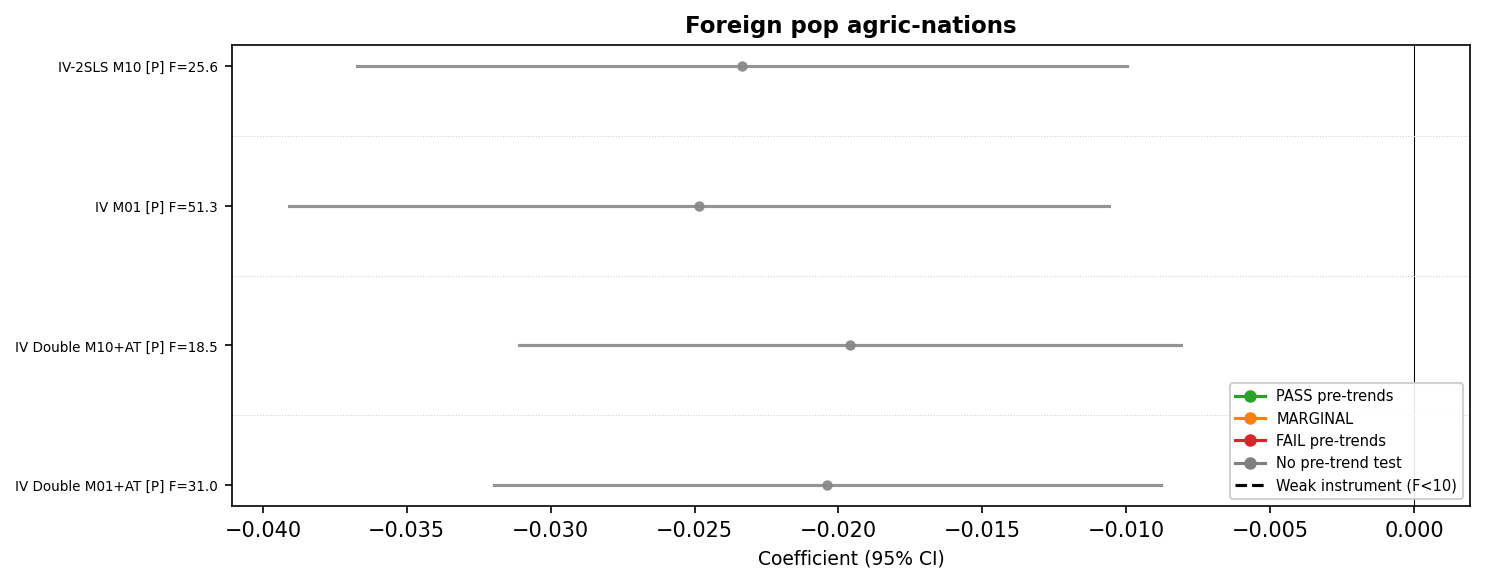
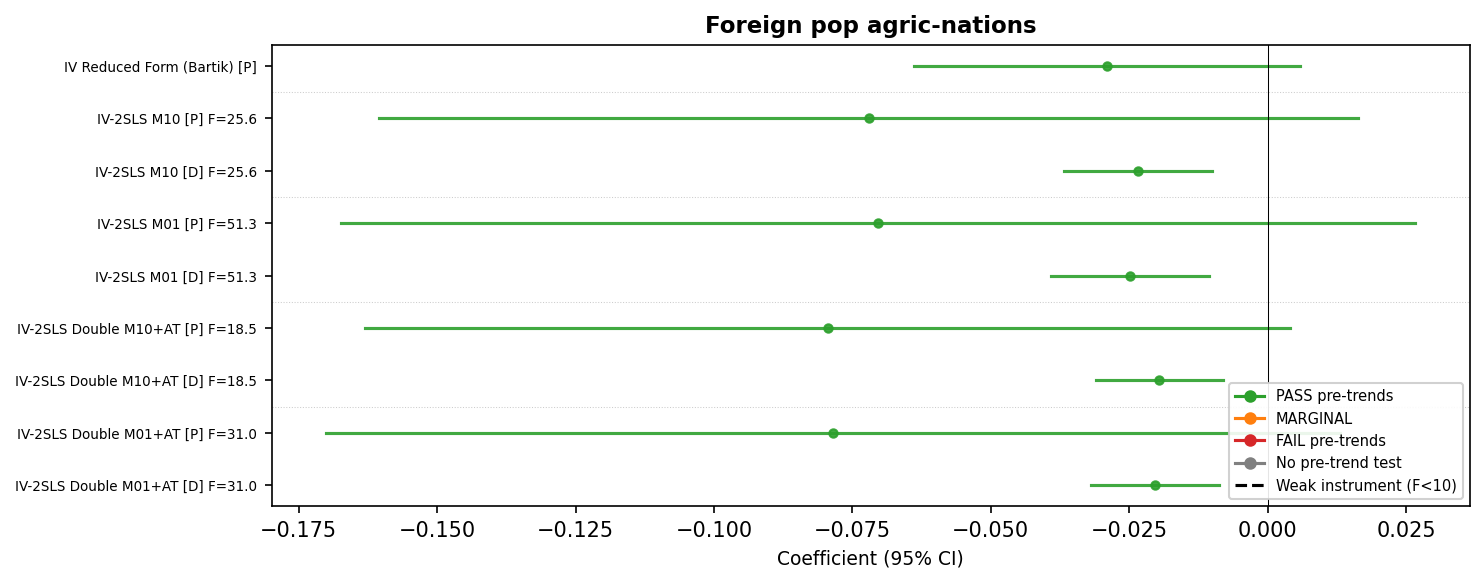
Full IV suite for all province outcomes, remove raw methods
- Parts 2-4 (Remittances, Permits, Nationality) now run full IV:
  RF + M10 + M01 + Double M10+AT + Double M01+AT
- All with both pooled and detrended coefficients
- RF pre-trends propagated to IV methods
- Removed raw/direct 2SLS and IV-agric-trade from display
- All 18 province outcomes now have event study tabs

diff --git a/province.html b/province.html
@@ -191,8 +191,10 @@ footer { margin-top: 3rem; padding-top: 1rem; border-top: 1px solid #eee; color:
   <div class="outcome-body">
     <div class="plot-tabs">
       <button class=" active" data-target="prov_foreign_pop_agric_nations_full">All Methods × Specs</button>
+      <button class="" data-target="prov_foreign_pop_agric_nations_event_study">IV Event Study</button>
     </div>
     <div class="plot-pane active" id="prov_foreign_pop_agric_nations_full"><img src="assets/img/province/foreign_pop_agric_nations.png" alt="Foreign pop agric-nations - All Methods × Specs" loading="lazy"></div>
+    <div class="plot-pane" id="prov_foreign_pop_agric_nations_event_study"><img src="assets/img/province/foreign_pop_agric_nations_event_study.png" alt="Foreign pop agric-nations - IV Event Study" loading="lazy"></div>
   </div>
 </div>
 <div class="outcome-section">
@@ -325,8 +327,10 @@ footer { margin-top: 3rem; padding-top: 1rem; border-top: 1px solid #eee; color:
   <div class="outcome-body">
     <div class="plot-tabs">
       <button class=" active" data-target="prov_permits_work_full">All Methods × Specs</button>
+      <button class="" data-target="prov_permits_work_event_study">IV Event Study</button>
     </div>
     <div class="plot-pane active" id="prov_permits_work_full"><img src="assets/img/province/permits_work.png" alt="Permits work - All Methods × Specs" loading="lazy"></div>
+    <div class="plot-pane" id="prov_permits_work_event_study"><img src="assets/img/province/permits_work_event_study.png" alt="Permits work - IV Event Study" loading="lazy"></div>
   </div>
 </div>
 <div class="outcome-section">
@@ -374,8 +378,10 @@ footer { margin-top: 3rem; padding-top: 1rem; border-top: 1px solid #eee; color:
   <div class="outcome-body">
     <div class="plot-tabs">
       <button class=" active" data-target="prov_remittances_agric_dest_full">All Methods × Specs</button>
+      <button class="" data-target="prov_remittances_agric_dest_event_study">IV Event Study</button>
     </div>
     <div class="plot-pane active" id="prov_remittances_agric_dest_full"><img src="assets/img/province/remittances_agric_dest.png" alt="Remittances agric-dest - All Methods × Specs" loading="lazy"></div>
+    <div class="plot-pane" id="prov_remittances_agric_dest_event_study"><img src="assets/img/province/remittances_agric_dest_event_study.png" alt="Remittances agric-dest - IV Event Study" loading="lazy"></div>
   </div>
 </div>
 
